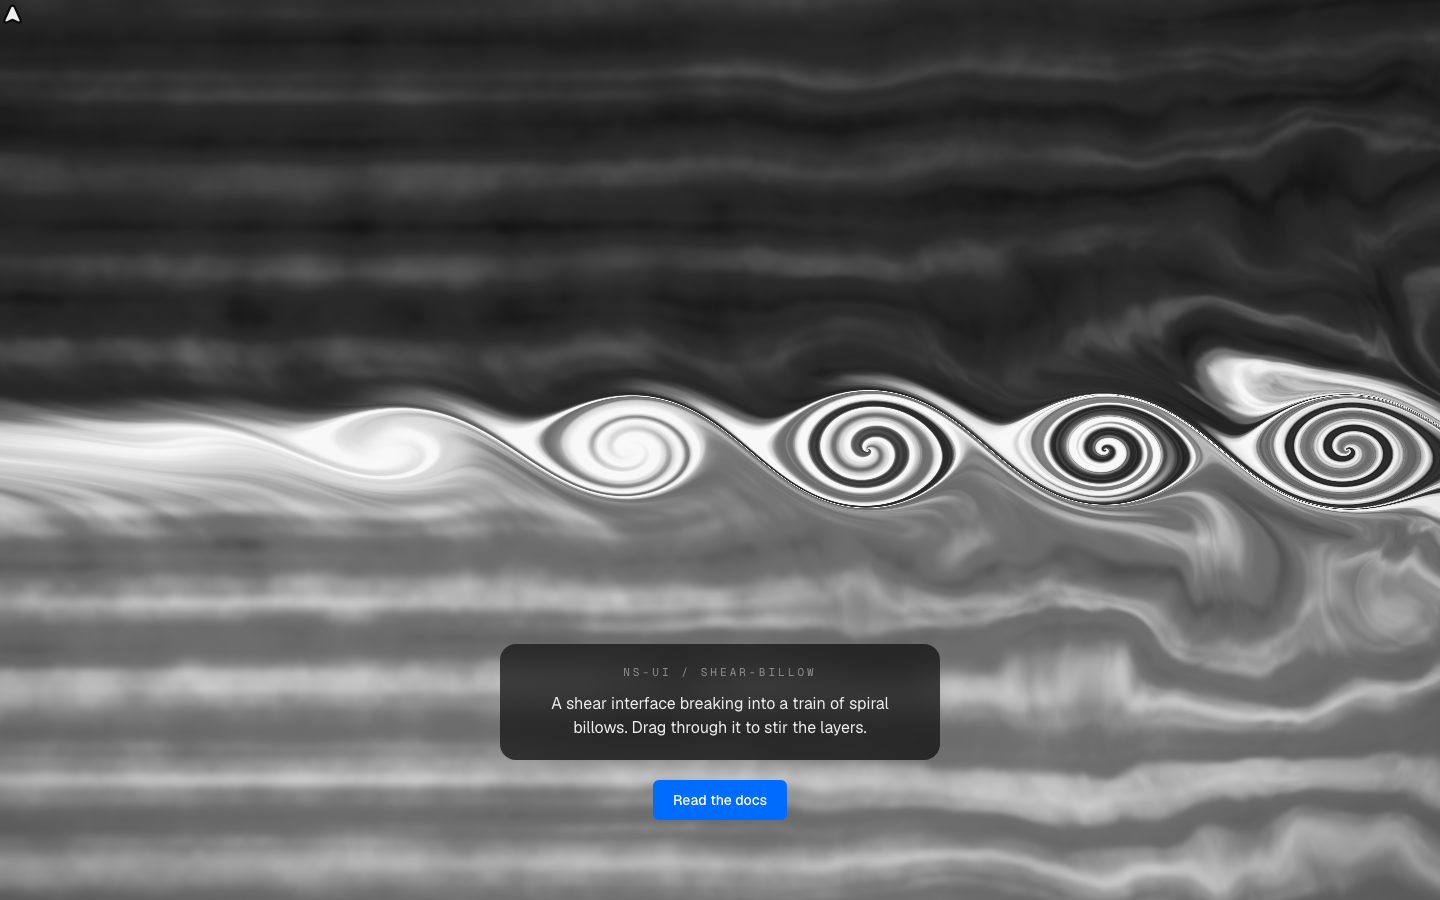
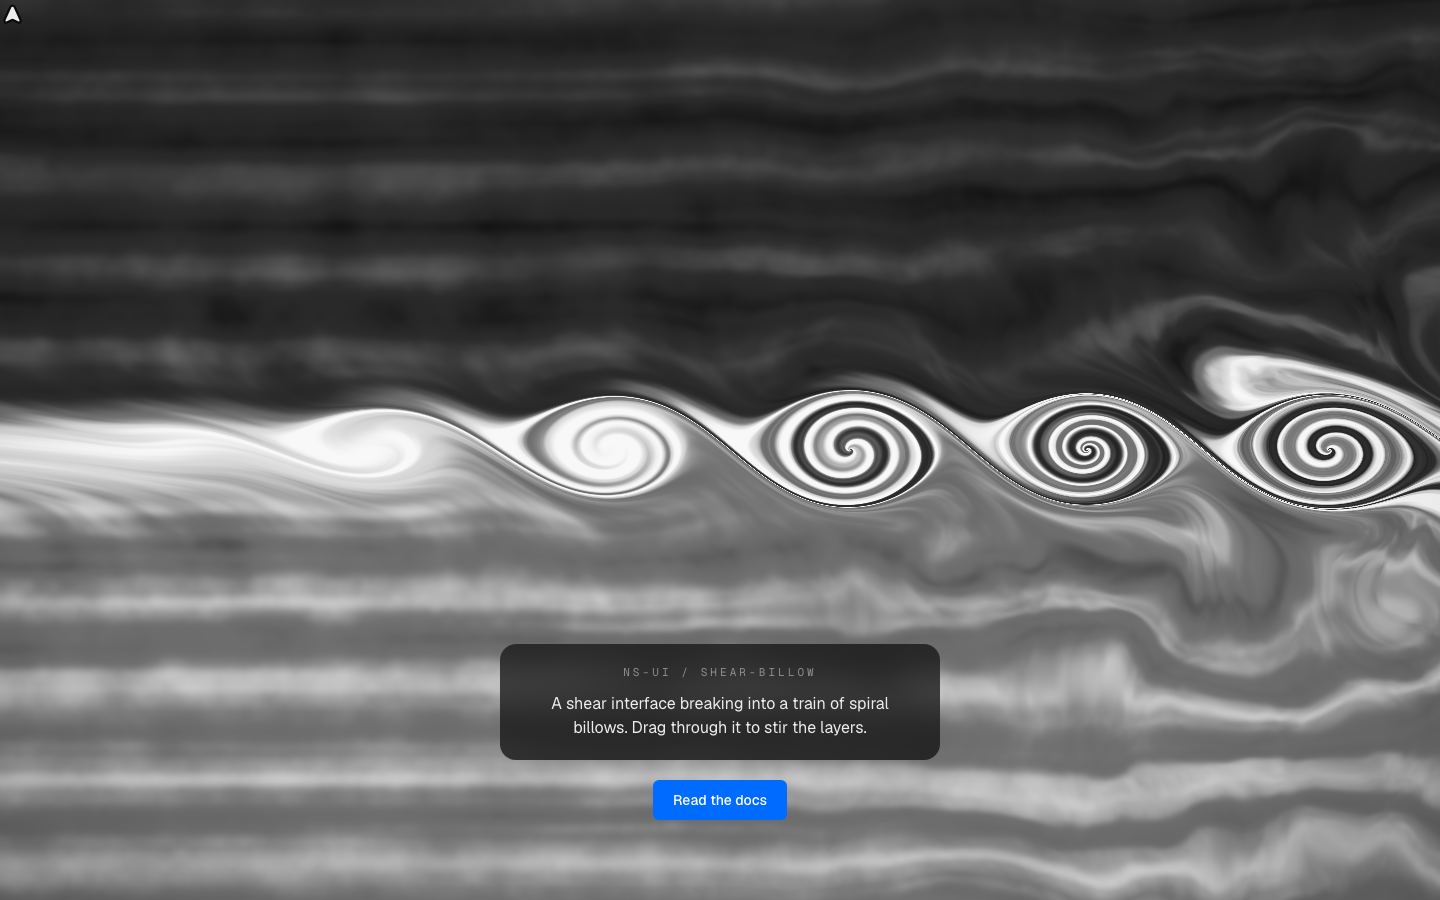
fix(shear-billow): pointer highlight in luminance, not accent
Removes the u_accent uniform and its mix from the pointer highlight; the
highlight now brightens only. Third component with this defect — the verifier
parks the mouse at the viewport origin, so an accent-tinted highlight bakes a
coloured blob into every graded screenshot.

Sampled every pixel of all ten regenerated screenshots: the only non-monochrome
pixels in any of them fall inside the CTA button's bounding box. Zero hue in
the canvas in either theme.

diff --git a/registry/loud/shear-billow/component.tsx b/registry/loud/shear-billow/component.tsx
@@ -51,8 +51,8 @@ import { useEffect, useId, useRef } from "react";
 // column of air, light is the same layer photographed as ink on paper, where
 // the dense sheet is the darkest thing on screen. Light is the harder case —
 // pale strata over a pale ground wash out — so its stops are spaced apart
-// separately rather than derived from dark's. --ns-accent is interaction-only:
-// it tints the pointer's own vortices, and it decays to exactly zero.
+// separately rather than derived from dark's. The pointer's own vortices lift
+// the sheet toward the brightest stop, in luminance only, and decay to zero.
 // ---------------------------------------------------------------------------
 
 export interface ShearBillowProps {
@@ -128,7 +128,6 @@ uniform vec3 u_c1;
 uniform vec3 u_c2;
 uniform vec3 u_c3;
 uniform vec3 u_c4;
-uniform vec3 u_accent;
 uniform float u_dark;
 
 float hash21(vec2 p) {
@@ -336,8 +335,10 @@ void main() {
   vec3 col = ramp(sigma);
 
   // ---- pointer ----------------------------------------------------------
-  // accent only where a live pointer vortex is, and it reaches zero when the
-  // last one decays, so a resting frame carries no accent at all
+  // a live pointer vortex lifts the sheet toward the brightest stop, and it
+  // reaches zero when the last one decays, so a resting frame carries no
+  // highlight at all — luminance only, never hue: --ns-accent is reserved
+  // for real interactive chrome, not a resting fluid layer
   if (u_stir > 0.0) {
     float near = 0.0;
     for (int i = 0; i < VORT; i++) {
@@ -349,8 +350,7 @@ void main() {
       near += exp(-r2 * 0.85) * exp(-age * 1.4);
     }
     near = clamp(near, 0.0, 1.0);
-    vec3 tint = mix(u_accent, mix(u_c4, u_accent, 0.5), sheet);
-    col = mix(col, tint, near * 0.34 * (0.30 + 0.70 * sheet));
+    col = clamp(col + vec3(near * 0.34 * (0.30 + 0.70 * sheet)), 0.0, 1.0);
   }
 
   // mild elliptical vignette toward the deepest stop so the frame edges stop
@@ -599,7 +599,6 @@ export function ShearBillow({
     let c2: RGB = [0.34, 0.34, 0.34];
     let c3: RGB = [0.7, 0.7, 0.7];
     let c4: RGB = [1, 1, 1];
-    let accent: RGB = [0, 0.42, 1];
     let darkMode = 1;
 
     // Two ramps, written separately rather than derived from one with a bias
@@ -614,7 +613,6 @@ export function ShearBillow({
       const fg = parseHex(cs.getPropertyValue("--foreground")) ?? [0.09, 0.09, 0.09];
       const muted = parseHex(cs.getPropertyValue("--ns-muted")) ?? [0.55, 0.55, 0.55];
       const border = parseHex(cs.getPropertyValue("--border")) ?? [0.18, 0.18, 0.18];
-      accent = parseHex(cs.getPropertyValue("--ns-accent")) ?? [0, 0.42, 1];
       const black: RGB = [0, 0, 0];
       const white: RGB = [1, 1, 1];
       if (luminance(bg) < 0.5) {
@@ -684,7 +682,6 @@ export function ShearBillow({
       surface.v3("u_c2", c2);
       surface.v3("u_c3", c3);
       surface.v3("u_c4", c4);
-      surface.v3("u_accent", accent);
       surface.f("u_dark", darkMode);
       surface.draw(canvas.width, canvas.height);
     };
